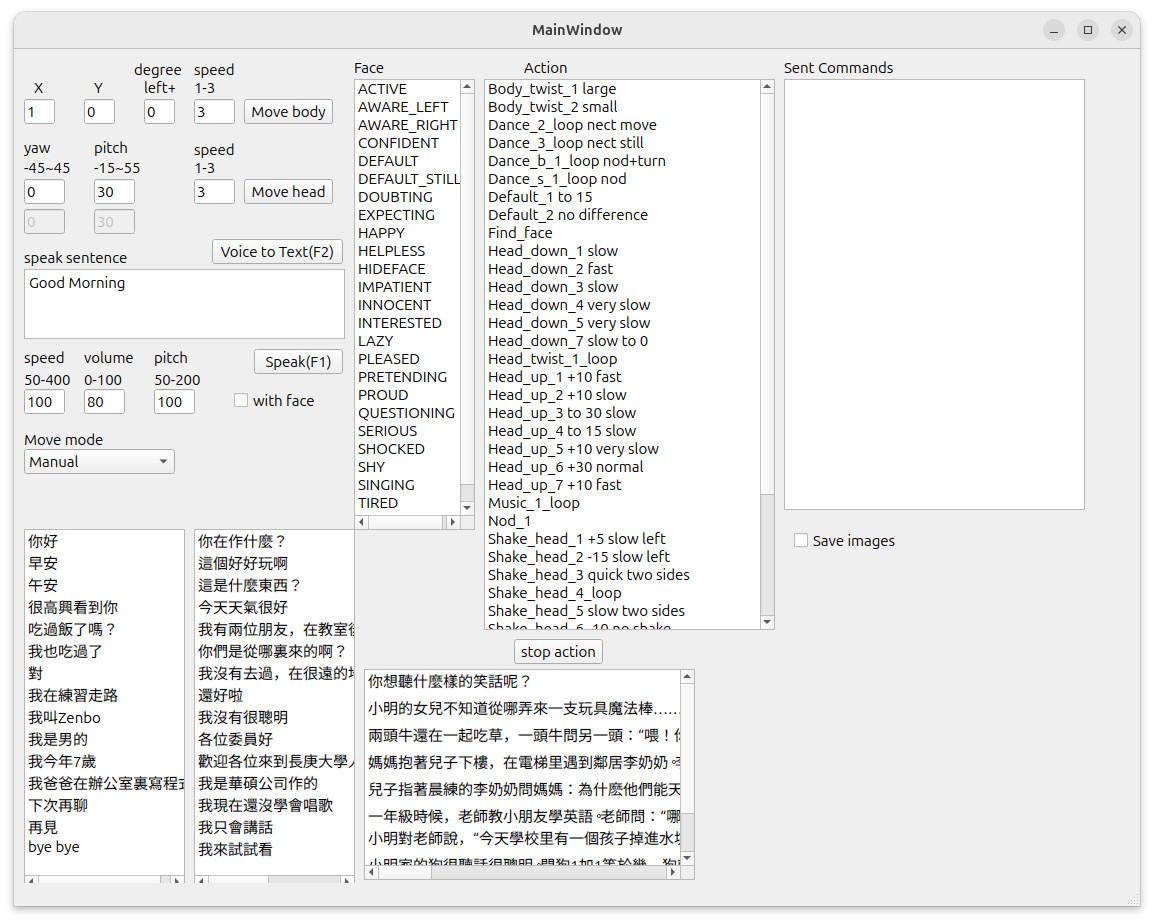
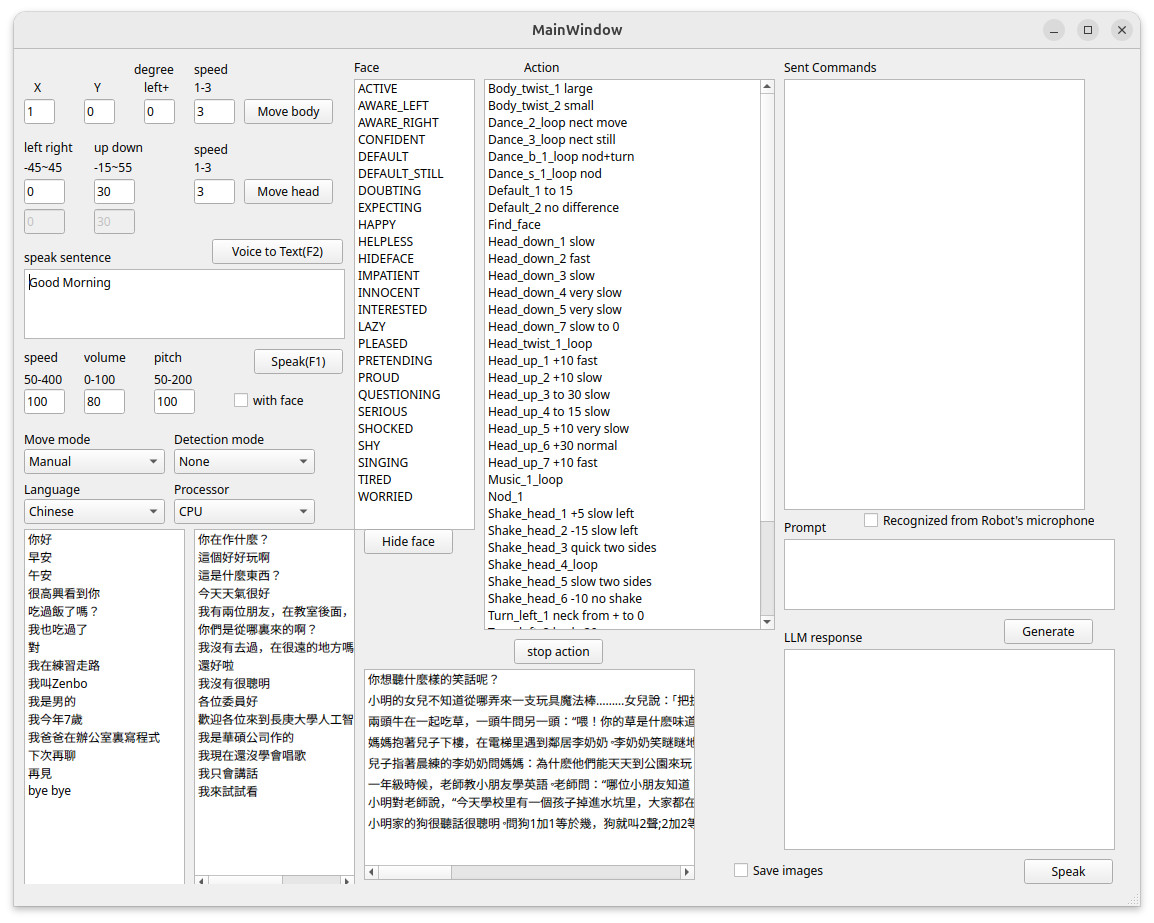
update README.md install.sh and GUI.jpg

diff --git a/Server/README.md b/Server/README.md
@@ -1,32 +1,32 @@
-This folder contains the code files for the server side program of ZenboNurseHelper. It provides an Graphic User Interface (GUI) for a user to remotely control the robot's action. The GUI currently looks like the image below and allows a user to send commands to the robot-side's app, which calls Zenbo SDK to execute those commands.
+This folder contains the code files for the server side program of RobotNurseHelper. It provides an Graphic User Interface (GUI) for a user to remotely control the robot's action. The GUI currently looks like the image below and allows a user to send commands to the robot-side's app, which calls Zenbo SDK or Kebbi SDK to execute those commands.
 
 ![GUI](GUI.jpg "GUI")
 
-In this project, we utilize MediaPipe as the pose estimation library to guide our Zenbo robot. Our server-side program receives frames transmitted from the robot-side app, estimates human pose landmark coordinates, send commands to robot to call robot's movement APIs.
+In this project, we utilize MediaPipe as the pose estimation library to guide our robot. Our server-side program receives frames transmitted from the robot-side app, estimates human pose landmark coordinates, send commands to robot to call robot's movement APIs.
 
 # Install
 We create a script file to install our code and all required libraries MediaPipe, OpenCV, git, gcc, Protocol Buffer, Qt, and PortAudio.
 The easiest way to install our program is to execute the following script.
 ```sh
 cd ~
-wget -O install.sh https://raw.githubusercontent.com/yangchihyuan/ZenboNurseHelper/refs/heads/master/Server/install.sh
+wget -O install.sh https://raw.githubusercontent.com/yangchihyuan/RobotNurseHelper/refs/heads/master/Server/install.sh
 chmod +x install.sh
 ./install.sh
 ```
 
-It will ask for your sudo password and take 40 to 50 minutes to install libraries
-and compile files. When everything is ready, you can use the following command to launch our program.
+It will ask for your sudo password and take 40 to 50 minutes to install all required libraries
+and compile files. Roughly 50Gib data will be downloaded from the Internet if your Ubuntu 24.04 is just installed without any required libraries. Thus, we recommand run the install script with a high-speed Wi-Fi connection. When everything is ready, you can use the following command to launch our program.
 
-If your PC does not have a NVidia GPU of the RTX 30 or 40 serial, you can lanuch the program by
+Our server-side program requires a GPU to run Whisper.cpp and Ollama rapidly. If your PC does not have a NVidia GPU, our program still can run, but very slowly, and you can not get response immediately. Because both Whisper.cpp and Ollama have multiple models in different size. We recommand you have 8G VRAM to load the Whisper's ggml-large-v3-turbo model and Ollama's Gemma3:4b model. The minimun accepted VRAM size is 2G. You can load Whisper's small model (VRAM 852mb) and Gemma3:1b model (VRAM 1b).
+
+If your GPU has 8G VRAM, you can use this command
 ```sh
-./run_server_side_program.sh
+./run_server_side_program.sh 4070
 ```
-which will load the small whipser base model, and it is still affordable by a CPU.
-If your PC is equipped with a RTX 30 or 40 serial GPU, use this command
+If your GPU has 4G VRAM, you can use this command
 ```sh
-./run_server_side_program.sh turbo
+./run_server_side_program.sh 3050
 ```
-which will load the ggml-large-v3-turbo model to recognize your voice very fast.
 
 # Known problems and workarounds
 You cannot install the pre-built OpenCV and Protocol Buffer packages for Ubuntu 24.04. The pre-built OpenCV 4.6.0 conflicts with MediaPipe's dependent OpenCV version in terms of their included Protocol Buffer version.
